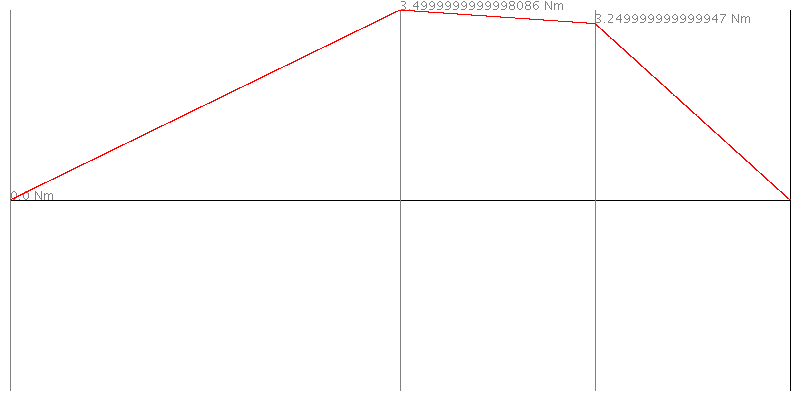
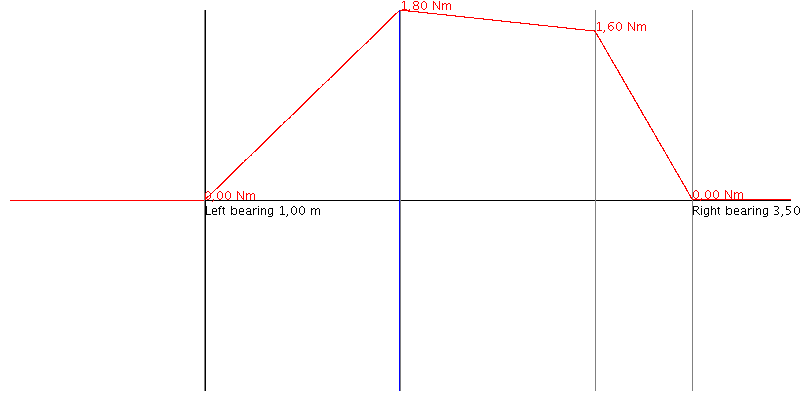
Improved drawing routine for stress resultants.
Decimal places of dimensions and stress resultents can be given.
Annotation text and dimensions/ stress resultants values do not overlap anymore.

diff --git a/src/org/berthold/beamCalc/StressResultantDraw.java b/src/org/berthold/beamCalc/StressResultantDraw.java
@@ -24,11 +24,15 @@ public class StressResultantDraw {
 	private Beam beam;
 	private StressResultantTable stressResultantsTable;
 	private int height_px, width_px, padX_px, padY_px;
+	private String numberFormat;
 	private int y0_px;
 	double yMax, yMin, xMax;
 
 	double leftSupportX, rightSupportX;
+	String leftSupportName,rightSupportName;
 	
+	// Constants for the GFX- window
+	private final int Y_OFFSET_ANOTATION=15;
 	
 	/**
 	 * Creates a new image.
@@ -40,9 +44,10 @@ public class StressResultantDraw {
 	 * @param width_px	The width of the image in pixels.
 	 * @param padX_px	Padding in pixels at the left and right side of the image.
 	 * @param padY_px	Padding in pixels at the top and bottom of the image.
+	 * @param numberFormat	Number format... (e.g. %.2f = two decimal places).
 	 */
 	public StressResultantDraw(String name,Beam beam,StressResultantTable stressResultants, int height_px, int width_px, int padX_px,
-			int padY_px) {
+			int padY_px,String numberFormat) {
 		super();
 		
 		this.name=name;
@@ -52,10 +57,14 @@ public class StressResultantDraw {
 		this.width_px = width_px;
 		this.padX_px = padX_px;
 		this.padY_px = padY_px;
+		this.numberFormat=numberFormat;
 
 		// Beam
 		leftSupportX=beam.getSupportsSortedByDistanceFromLeftEndOfBeamDesc().get(0).getDistanceFromLeftEndOfBeam_m();
+		leftSupportName=beam.getSupportsSortedByDistanceFromLeftEndOfBeamDesc().get(0).getNameOfSupport();
+		
 		rightSupportX=beam.getSupportsSortedByDistanceFromLeftEndOfBeamDesc().get(1).getDistanceFromLeftEndOfBeam_m();
+		rightSupportName=beam.getSupportsSortedByDistanceFromLeftEndOfBeamDesc().get(1).getNameOfSupport();
 		
 		// Constants efining the gfx- window
 		y0_px = height_px / 2;
@@ -82,10 +91,16 @@ public class StressResultantDraw {
 			graphics.drawLine(padX_px,y0_px,width_px-padX_px,y0_px);
 			
 			// Supports
+			String dimFormated;
 			int xTLeft=(int)getXT(leftSupportX);
-			int xTRight=(int)getXT(rightSupportX);
 			graphics.drawLine(xTLeft,(int)padY_px,xTLeft,(int)height_px-padY_px);
+			dimFormated=String.format(numberFormat,leftSupportX);
+			graphics.drawString(leftSupportName+" "+dimFormated+" m",xTLeft,(int)getYT(0)+Y_OFFSET_ANOTATION);
+			
+			int xTRight=(int)getXT(rightSupportX);
 			graphics.drawLine(xTRight,(int)padY_px,xTRight,(int)height_px-padY_px);
+			dimFormated=String.format(numberFormat,rightSupportX);
+			graphics.drawString(rightSupportName+" "+dimFormated+" m",xTRight,(int)getYT(0)+Y_OFFSET_ANOTATION);
 			
 			// Draw stress resultants.
 			for (StressResultant r: stressResultantsTable.sfValues) {
@@ -98,11 +113,20 @@ public class StressResultantDraw {
 				
 				graphics.drawLine((int)getXT(x),(int) getYT(y),(int) getXT(x),(int) getYT(y));
 				
+				String shFormated;
 				if (r.isDiscontiunuity()) {
 					graphics.setColor(Color.GRAY);
 					graphics.drawLine((int)getXT(x),padY_px,(int)getXT(x),height_px-padY_px);
 					
-					graphics.drawString(r.getShearingForce()+" "+r.getUnit(),(int)getXT(x),(int)getYT(y));
+					graphics.setColor(Color.RED);
+					
+					shFormated=String.format(numberFormat,r.getShearingForce());					
+					graphics.drawString(shFormated+" "+r.getUnit(),(int)getXT(x),(int)getYT(y));
+				}
+				
+				if(r.isMaxima()) {
+					graphics.setColor(Color.BLUE);
+					graphics.drawLine((int)getXT(x),padY_px,(int)getXT(x),height_px-padY_px);
 				}
 			}
 			

diff --git a/src/MainBeamCalculator.java b/src/MainBeamCalculator.java
@@ -19,14 +19,16 @@ public class MainBeamCalculator {
 
 		// Create a new beam
 		Beam myBeam = new Beam(4);
-		myBeam.addBearing(new Support("Left bearing", 0, Support.ROLLER_SUPPORT));
-		myBeam.addBearing(new Support("Right bearing", 4, Support.PIN_SUPPORT));
+		myBeam.addBearing(new Support("Left bearing", 1, Support.ROLLER_SUPPORT));
+		myBeam.addBearing(new Support("Right bearing", 3.5, Support.PIN_SUPPORT));
 
 		// Add loads
 		// NAME/ Force/ Distance/ Angle /Length
 		myBeam.addLoad(new Load("F1", -2.0, 2, 0, 0));
 		myBeam.addLoad(new Load("F2", -3, 3,0, 0));
 		//myBeam.addLoad(new Load("q1", -5, 0, 0, 4));
+		
+		
 		//myBeam.addLoad(new Load("q2", -2, 1, 0, 3));
 		//myBeam.addLoad(new Load("q3", -4, 2, 0, 2));
 
@@ -85,7 +87,7 @@ public class MainBeamCalculator {
 							+ v.getShearingForce()+" N");
 			}
 			
-			StressResultantDraw d=new StressResultantDraw("Q",myBeam,qTable,400,800,10,10);
+			StressResultantDraw d=new StressResultantDraw("Q",myBeam,qTable,400,800,10,10,"%.2f");
 			d.draw();
 			
 			//for (StressResultant r:qTable.getShearingForceTable()) {
@@ -105,7 +107,17 @@ public class MainBeamCalculator {
 				if (v.isDiscontiunuity())
 					System.out.println("x=" + v.getX_m() + " m   M=" + v.getShearingForce()+" "+v.getUnit());
 			}
-			StressResultantDraw m=new StressResultantDraw("M",myBeam,mTable,400,800,10,10);
+			
+			System.out.println("Local maxi-/  minima");
+			for (int n = 0; n <= mTable.getLength() - 1; n++) {
+				StressResultant v = mTable.getShearingForceAtIndex(n);
+				if (v.isZeroPoint())
+					System.out.println("x=" + v.getX_m() + " m   M=" + v.getShearingForce()+" "+v.getUnit());
+			}
+			
+			
+			
+			StressResultantDraw m=new StressResultantDraw("M",myBeam,mTable,400,800,10,10,"%.2f");
 			m.draw();
 			
 			//for (StressResultant r:mTable.getShearingForceTable()) {
@@ -125,6 +137,9 @@ public class MainBeamCalculator {
 				if (v.isDiscontiunuity())
 					System.out.println("x=" + v.getX_m() + " m   N[N]=" + v.getShearingForce()+" "+v.getUnit());
 			}
+			
+			StressResultantDraw n=new StressResultantDraw("N",myBeam,nTable,400,800,10,10,"%.2f");
+			n.draw();
 
 		} else
 			showErrors(result);

diff --git a/src/org/berthold/beamCalc/MSolver.java b/src/org/berthold/beamCalc/MSolver.java
@@ -40,8 +40,8 @@ public class MSolver {
 
 		for (int n = 0; n <= qTable.getLength() - 2; n++) {
        
-			
 			q_N = qTable.getShearingForceAtIndex(n).getShearingForce();
+		
 			q1_N = qTable.getShearingForceAtIndex(n + 1).getShearingForce();
 			double deltaQ_N = q1_N - q_N;
 
@@ -51,7 +51,9 @@ public class MSolver {
 				m_Nm = q_N * x;
 				m1_Nm = q1_N * (x + sectionLength_m);
 				deltaM_Nm = m1_Nm - m_Nm;
-			} else {
+				
+	
+	} else {
 				
 			}
 			
@@ -64,6 +66,13 @@ public class MSolver {
 				mTable.getShearingForceAtIndex(n).setDiscontiunuity(true);
 				mTable.getShearingForceAtIndex(n).setShearingForceDeltaBy(m_Nm+deltaM_Nm);
 			}	
+			
+			// Check for zero points in Q(x). Zero points are local
+			// maxima in M(x).
+			if (qTable.getShearingForceAtIndex(n).isZeroPoint()) 
+				mTable.getShearingForceAtIndex(n).setMaxima(true);
+			
+	
 
 			// Next
 			x = x + sectionLength_m;

diff --git a/src/org/berthold/beamCalc/StressResultantTable.java b/src/org/berthold/beamCalc/StressResultantTable.java
@@ -153,15 +153,14 @@ public class StressResultantTable {
 		}
 
 		// Debug....
-		// for (StressResultant v : this.sfValues)
-		// System.out.println("x=" + v.getX_m() + " Q=" + v.getShearingForce()+"
-		// dis="+v.isDiscontiunuity());
+		//for (StressResultant v : this.sfValues)
+		//System.out.println("x=" + v.getX_m() + " Q=" + v.getShearingForce()+"dis="+v.isDiscontiunuity());
 	}
 
 	/**
 	 * List of shearing forces.
 	 * 
-	 * @return This list of {@link StressResultant}- o bjects.
+	 * @return This list of {@link StressResultant}- objects.
 	 */
 	public List<StressResultant> getShearingForceTable() {
 		return sfValues;

diff --git a/src/org/berthold/beamCalc/StressResultant.java b/src/org/berthold/beamCalc/StressResultant.java
@@ -20,7 +20,7 @@ public class StressResultant {
 	private boolean isDiscontiunuity;
 	private double shearingForceDeltaBy; // Force acting here!
 
-	private boolean isZeroPoint; // Zero points in Q(x) are maxima in M(x).
+	private boolean isZeroPoint; 
 	private boolean isMaxima;
 
 	/**
